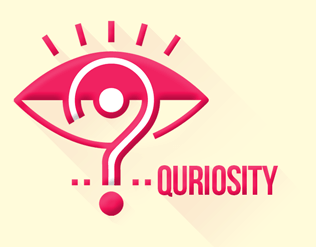
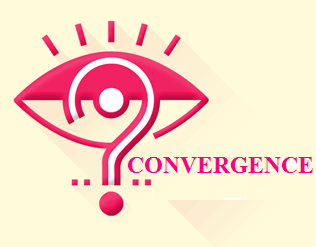
convergence modified

Changed region(s): [[0.3987, 0.6235, 0.9968, 0.8219]]

diff --git a/website/templates/Staff.html b/website/templates/Staff.html
@@ -167,6 +167,11 @@
 					        <h3 class="parralax skrollable skrollable-after" style="top: 0px;" data-0="top:500px;" data-794="top:0px;">Kushagra Agarwal</h3>
 					        <div class="profile"><p>Marketing Head</p></div>
 				        </div>
+				        <div class="col_4 alignCenter item parralax skrollable skrollable-after" style="top: 0px; padding:center;" data-0="top:200px;" data-629="top:0px;">
+					        <img src="/static/Staff_files/nrv.png" alt="Fizz Marshall" class="modalTrigger" id="2973" width="200px" height="200px">
+					        <h3 class="parralax skrollable skrollable-after" style="top: 0px;" data-0="top:500px;" data-794="top:0px;">Nishant Raj Vibhu</h3>
+					        <div class="profile"><p>Hospitality Head</p></div>
+				        </div>
 
                     
                             <div class="clear"></div>

diff --git a/website/templates/index.html b/website/templates/index.html
@@ -685,7 +685,7 @@ $(document).ready(function(){
                         <div class="col-md-3 col-sm-12 col-lg-3"  style="padding:0px" style="padding:0px">
 						   <figure class="gridfig">						
 							<a href="conv" class="b-link-stripe b-animate-go wow zoomIn animated"  >
-							<img src="/static/img/pop.6.png" class="img-responsive" alt=""/>
+							<img src="/static/images/q.png" class="img-responsive" alt=""/>
 							<div class="b-wrapper">
 								<span class="b-animate b-from-left">
 									<img class="img-responsive" src="/static/images/e.png" alt=""/>
